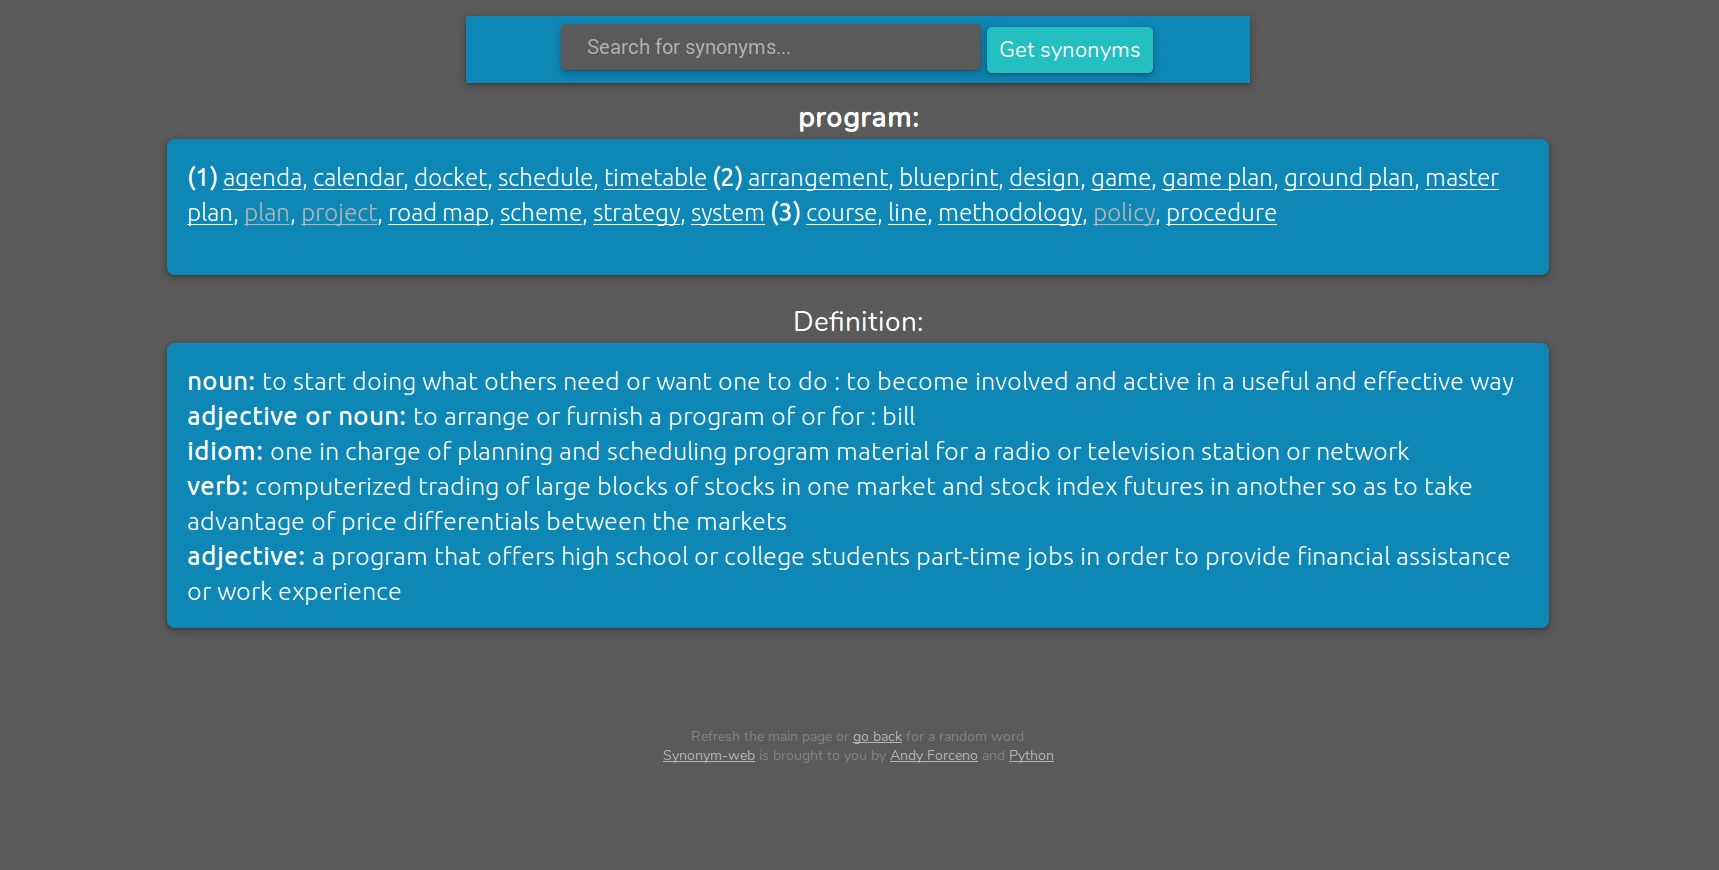
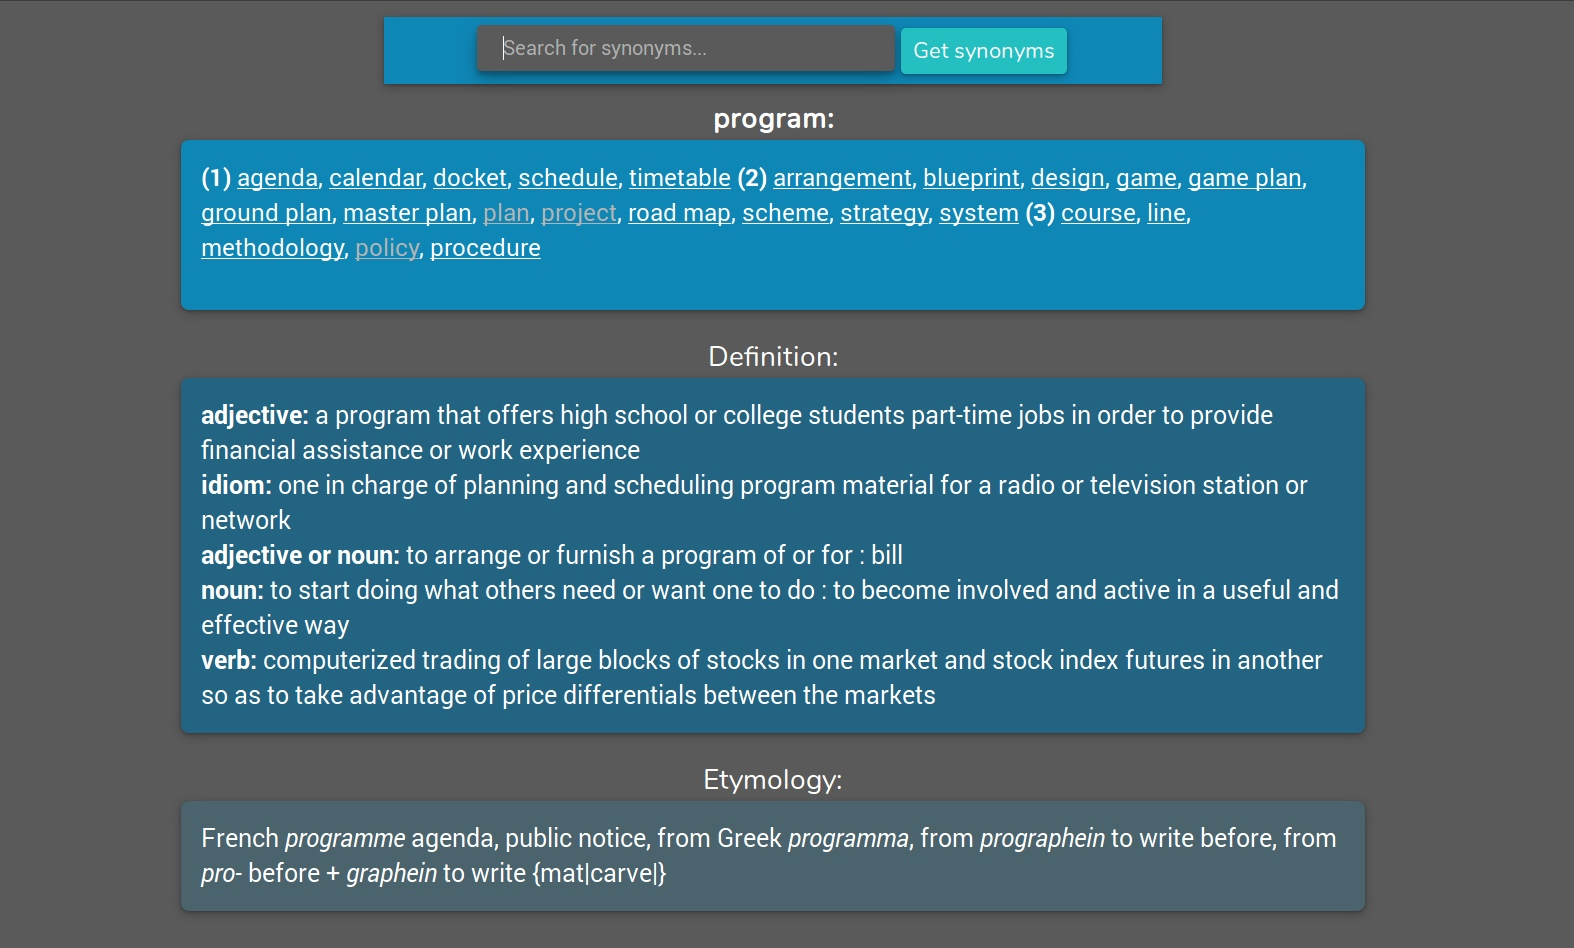
Etymology + CSS changes

diff --git a/app/static/stylesheet.css b/app/static/stylesheet.css
@@ -97,11 +97,28 @@ div.content {
 }
 
 .synonyms {
-  background: rgb(15,135,182);
+  background: rgb(15, 135, 182);
   font-family: 'Roboto+slab', sans-serif;
   font-size: 25px;
   position: relative;
-  width: 70%;
+  width: 60%;
+  height: 50%;
+  margin: 2px;
+  padding: 20px;
+  /*line-height: 30px;*/
+  box-shadow: 0 1px 2px 0 rgba(0, 0, 0, 0.25), 
+              0 3px 9px 0 rgba(0, 0, 0, 0.25);
+  color: white;
+  /*text-align: center;*/
+  border-radius: 8px;
+}
+
+.definitions {
+  background: rgb(35, 100, 130);
+  font-family: 'Roboto+slab', sans-serif;
+  font-size: 25px;
+  position: relative;
+  width: 60%;
   height: 50%;
   margin: 2px;
   padding: 20px;
@@ -118,7 +135,7 @@ div.content {
   font-family: 'Roboto+slab', sans-serif;
   font-size: 25px;
   position: relative;
-  width: 70%;
+  width: 60%;
   height: 50%;
   margin: 2px;
   padding: 20px;
@@ -172,13 +189,28 @@ a:hover {
     height: 50%;
     line-height: 30px;
     margin: 2px;
-    padding: 4px;
+    padding: 10px;
     box-shadow: 0 1px 2px 0 rgba(0, 0, 0, 0.25), 
                 0 3px 9px 0 rgba(0, 0, 0, 0.25);
     color: white;
     text-align: justify;
     border-radius: 8px;
   }
+
+.definitions {
+  background: rgb(35, 100, 130);
+  font-family: 'Roboto+slab', sans-serif;
+  font-size: 25px;
+  position: relative;
+  width: 90%;
+  height: 50%;
+  margin: 2px;
+  padding: 10px;
+  box-shadow: 0 1px 2px 0 rgba(0, 0, 0, 0.25), 
+              0 3px 9px 0 rgba(0, 0, 0, 0.25);
+  color: white;
+  border-radius: 8px;
+}
 
   div.etymology {
   background: rgb(15,135,182, 0.2);
@@ -188,7 +220,7 @@ a:hover {
   width: 90%;
   height: 50%;
   margin: 2px;
-  padding: 20px;
+  padding: 10px;
   box-shadow: 0 1px 2px 0 rgba(0, 0, 0, 0.25), 
               0 3px 9px 0 rgba(0, 0, 0, 0.25);
   color: white;

diff --git a/app/templates/index.html b/app/templates/index.html
@@ -26,13 +26,13 @@
   <!-- This is pretty ugly, but it works --> 
    {% if (synonyms is iterable) and (synonyms is not string) %}
    <font size="5">
+    <!-- Number each list of words with a common meaning -->
+    <!-- Don't insert a comma if we're at the last word -->
     {% for meanings in synonyms %}
       {% if (loop.length > 1) %}
-        <!-- Number each list of words with a common meaning -->
         <b>{% print("(""%s"")" % loop.index) %}</b>
       {% endif %}
       {% for w in meanings %}
-      <!-- Don't insert a comma if we're at the last word -->
         {% if loop.last %}
          <a href="../words/{{w}}">{{w}}</a>
         {% elif not loop.last %}
@@ -44,7 +44,7 @@
   {% elif spellcheck and (spellcheck != word) %}
         Did you mean 
         <!-- If the list has > 1 element, and we're on the last element, no "," but add a "or" and "?" -->
-        <!-- Or if it has just one element, no "," and add a "?" (no "or") -->
+        <!-- Or if it has just one element, no "," and add a "?" -->
         <!-- If not the last element in loop, add "," to end -->
         {% for s in spellcheck %}
           {% if (loop.last) and (loop.length > 1) %}
@@ -63,7 +63,7 @@
 <p><p></p></p>
 <div class="textbox">
   Definition: <br></div>
-<div class="synonyms">
+<div class="definitions">
   <div class="text-wrap">
 {% if definitions is not string %}
   {% for parts, defin in definitions.items() %}

diff --git a/app/app.py b/app/app.py
@@ -10,7 +10,7 @@ import requests
 # API key for dictionaryapi.com thesaurus
 syn_key = "INSERT API KEY"
 # API key for dictionaryapi.com dictionary
-dict_key = "INSERT API KEY"
+dict_key = "INSERT API KEYa"
 
 
 class ReverseProxied(object):
@@ -36,12 +36,9 @@ app = Flask(__name__)
 ''' Uncomment this if you are using a reverse proxy with a subfolder '''
 #app.wsgi_app = ReverseProxied(app.wsgi_app)
 
-def checkspelling(word):
-    spell = SpellChecker()
-    misspelled = spell.unknown([word])
-
-    for w in misspelled:
-        return spell.candidates(w)
+def multireplace(dict, text):
+  regex = re.compile("|".join(map(re.escape, dict.keys())))
+  return regex.sub(lambda mo: dict[mo.group(0)], text)
 
 
 def flatten(lists):
@@ -72,15 +69,16 @@ def get_defin(word):
     json_data = json.loads(response)
 
     defs = list(flatten(findkeys(json_data, 'shortdef')))
-    speechparts = list(findkeys(json_data, 'fl'))    
+    speechparts = list(findkeys(json_data, 'fl'))
     combined = [val for pair in zip(speechparts, defs) for val in pair]
     i = iter(combined)
     combined = dict(zip(i, i))
 
     try:
         etymology = list(flatten(findkeys(json_data, 'et')))[1]
-        etymology = etymology.replace('{it}', '<i>').replace('{/it}', '</i>')
-    except: 
+        etymology = etymology.replace('{it}', '<i>').replace('{/it}', '</i>'
+            ).replace('{ma}', '').replace('{/ma}', '')
+    except:
         etymology = "No etymology"
 
     if combined:
@@ -89,14 +87,13 @@ def get_defin(word):
         combined = "No definitions found"
         return (combined, etymology)
 
-''' TODO: Synlists should be returned formatted
-          instead of being formatted in the template  '''
+
 def get_synonyms(word):
     url = "https://www.dictionaryapi.com/api/v3/references/thesaurus/json/%s?key=%s" % (word, syn_key)
     response = requests.get(url).text
     json_data = json.loads(response)
     syns = list(findkeys(json_data, 'syns'))
-    
+
     synlists = [s for g in syns for s in g ]
 
     if synlists:
@@ -104,6 +101,15 @@ def get_synonyms(word):
     else:
         synlists = "No synonyms found"
         return synlists
+
+
+def checkspelling(word):
+    word = "huse"
+    spell = SpellChecker()
+    misspelled = spell.unknown([word])
+
+    for w in misspelled:
+        return list(spell.candidates(w))
 
 
 @app.route('/', methods=['GET', 'POST'])
@@ -141,12 +147,12 @@ def get_words(word):
 
 
 ''' Sends no-cache headers to browser, for easier web development '''
-@app.after_request
-def set_response_headers(response):
-    response.headers['Cache-Control'] = 'no-cache, no-store, must-revalidate'
-    response.headers['Pragma'] = 'no-cache'
-    response.headers['Expires'] = '0'
-    return response
+#@app.after_request
+#def set_response_headers(response):
+#    response.headers['Cache-Control'] = 'no-cache, no-store, must-revalidate'
+#    response.headers['Pragma'] = 'no-cache'
+#    response.headers['Expires'] = '0'
+#    return response
 
 ''' Allows printing of debug msgs from jinga2 templates '''
 #@app.context_processor
